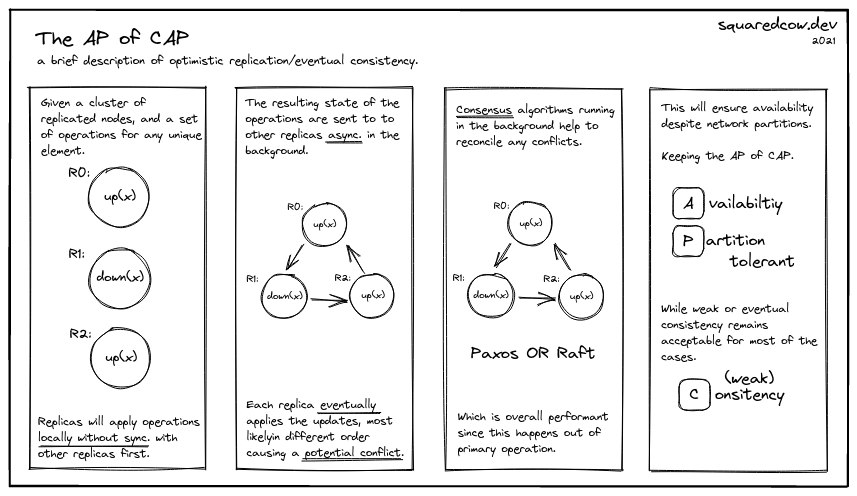
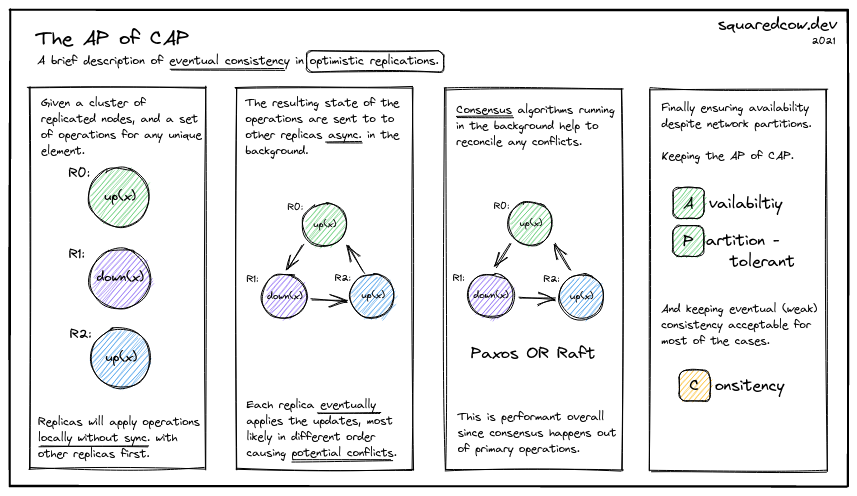
[entry] today's progress

diff --git a/content/posts/crdt-00/index.md b/content/posts/crdt-00/index.md
@@ -5,9 +5,7 @@ description: Introduction to CRDTs
 draft: true
 ---
 
-# CRDTs: Conflict-free replicated data types
-
-## Initial motivations
+## Init Journey
 
 These past months I've been helping out with technical screen interviews on the job, the regular 1-hour meeting in which the candidate is given a code challenge and must provide a decent working solution by the end of it. That leaves me in a tight spot from time to time with the candidates.
 
@@ -23,15 +21,16 @@ Collaborative text web applications are asynchronous, fully powered by distribut
 
 If two users write, update or delete the same word in the document. Which change is the right one? Is it the last one? How do we handle this edit conflict? The operations are directly affected by the latency between the nodes.
 
-In an article published in 2011 by Marc Shapiro, Nuno Preguiça, Carlos Baquero, and Marek Zawirski named **"A comprehensive study of Convergent and Commutative Replicated Data Types."**[^1] they propose the design of shared data types capable of conflict-free eventual consistency.
+In an article published in 2011 by _Marc Shapiro, Nuno Preguiça, Carlos Baquero, and Marek Zawirski_ named **"A comprehensive study of Convergent and Commutative Replicated Data Types."**[^1] they propose the design of shared data types capable of conflict-free eventual consistency.
 
-Quoting the abstract of given research: 
+Quoting a fragment of the Abstract of given research: 
 
-> We call these types Convergent or Commutative Replicated Data Types(CRDTs). This paper formalizes asynchronous object replication, either state-based or operation-based, and provides a sufficient condition appropriate for each case. It describes several useful CRDTs, including container data types supporting both "add" and "remove" operations with clean semantics, and more complex types such as graphs, monotonic DAGs, and sequences. It discusses some properties needed to implement non-trivial CRDTs.
+> Eventual consistency aims to ensure that replicas of some mutable shared object converge without foreground synchronisation. Previous approaches to eventual consistency are ad-hoc and error-prone. We study a principled approach: to base the design of shared data types on some simple formal conditions that are sufficient to guarantee eventual consistency. We call these types Convergent or Commutative Replicated Data Types(CRDTs). 
 
-## The AP of CAP
+This next infografic is meant to provide you an understable glimpse of eventual consitency.
 
-![Example image](/images/excalidraws/the_ap_of_cap.png)
+![The AP of CAP](/images/excalidraws/the_ap_of_cap.png)
+Powered by Excalidraw.
 
 ## Diving into CRDTs
 

diff --git a/content/license.md b/content/license.md
@@ -1,0 +1,8 @@
+## Copyright © 2021 Luis Vaca
+
+All work done by the author is under dual-license. All the source code, is covered by the MIT License. All content and materials such as images, audios, records, etc. are covered by Creative Commons Attribution-ShareAlike 4.0 International License.  
+
+[![License: MIT](https://img.shields.io/badge/License-MIT-green.svg)](https://opensource.org/licenses/MIT)
+
+[![License: CC BY-SA 4.0](https://img.shields.io/badge/License-CC%20BY--SA%204.0-blue.svg)](https://creativecommons.org/licenses/by-sa/4.0/)
+
